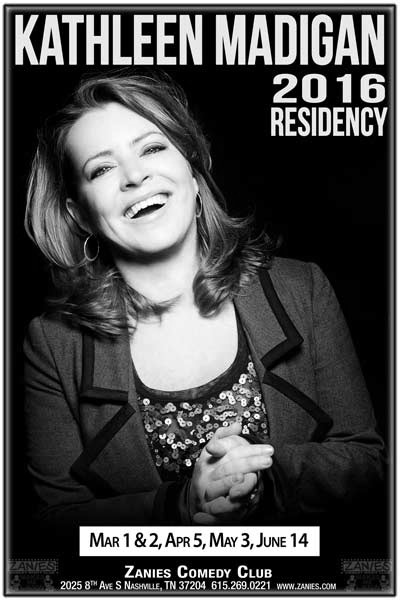
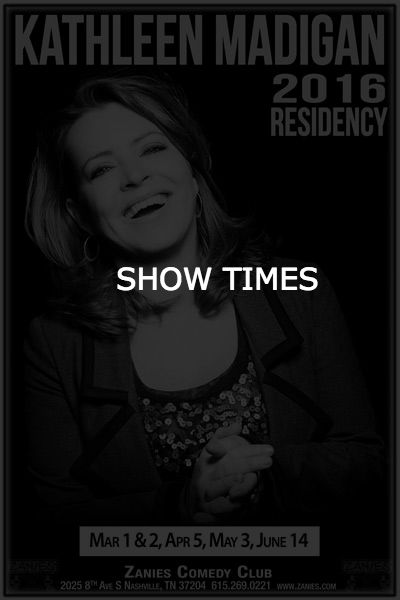
Fixed images to create mouse hover effect

diff --git a/Website/index.html b/Website/index.html
@@ -153,49 +153,49 @@
                           </li>
                           <li class="artists-list">
                             <div class="profile-cell">
-                              <a data-toggle="modal" data-target="#myModal00" class="artistslink">
+                              <a data-toggle="modal" data-target="#myModal01" class="artistslink">
                                 <div class="crop">
-                                  <img class="artists-pic" src="img/artists/artist01.jpg">
+                                  <img class="artists-pic" mouseover-src="img/artists/artist01s.jpg" src="img/artists/artist01.jpg">
                                 </div>
                             </div>
                           </li>
                           <li class="artists-list">
                             <div class="profile-cell">
-                              <a data-toggle="modal" data-target="#myModal00" class="artistslink">
+                              <a data-toggle="modal" data-target="#myModal03" class="artistslink">
                                 <div class="crop">
-                                  <img class="artists-pic" src="img/artists/artist03.jpg">
+                                  <img class="artists-pic" mouseover-src="img/artists/artist03s.jpg" src="img/artists/artist03.jpg">
                                 </div>
                             </div>
                           </li>
                           <li class="artists-list">
                             <div class="profile-cell">
-                              <a data-toggle="modal" data-target="#myModal00" class="artistslink">
+                              <a data-toggle="modal" data-target="#myModal04" class="artistslink">
                                 <div class="crop">
-                                  <img class="artists-pic" src="img/artists/artist04.jpg">
+                                  <img class="artists-pic" mouseover-src="img/artists/artist04s.jpg" src="img/artists/artist04.jpg">
                                 </div>
                             </div>
                           </li>
                           <li class="artists-list">
                             <div class="profile-cell">
-                              <a data-toggle="modal" data-target="#myModal00" class="artistslink">
+                              <a data-toggle="modal" data-target="#myModal08" class="artistslink">
                                 <div class="crop">
-                                  <img class="artists-pic" src="img/artists/artist08.jpg">
+                                  <img class="artists-pic" mouseover-src="img/artists/artist08s.jpg" src="img/artists/artist08.jpg">
                                 </div>
                             </div>
                           </li>
                           <li class="artists-list">
                             <div class="profile-cell">
-                              <a data-toggle="modal" data-target="#myModal00" class="artistslink">
+                              <a data-toggle="modal" data-target="#myModal09" class="artistslink">
                                 <div class="crop">
-                                  <img class="artists-pic" src="img/artists/artist09.jpg">
+                                  <img class="artists-pic" mouseover-src="img/artists/artist09s.jpg" src="img/artists/artist09.jpg">
                                 </div>
                             </div>
                           </li>
                           <li class="artists-list">
                             <div class="profile-cell">
-                              <a data-toggle="modal" data-target="#myModal00" class="artistslink">
+                              <a data-toggle="modal" data-target="#myModal07" class="artistslink">
                                 <div class="crop">
-                                  <img class="artists-pic" src="img/artists/artist07.jpg">
+                                  <img class="artists-pic" mouseover-src="img/artists/artist07s.jpg" src="img/artists/artist07.jpg">
                                 </div>
                             </div>
                           </li>

diff --git a/Website/css/custom.css b/Website/css/custom.css
@@ -53,6 +53,10 @@ hr {
     letter-spacing: 3px;
 }
 
+.navbar-default:hover .navbar-nav>li>a:hover {
+  color: rgb(255, 0, 0);
+}
+
 .img-full {
     min-width: 100%;
 }
@@ -69,6 +73,7 @@ hr {
 .brand-name {
     margin-top: 100px;
     font-size: 4em;
+    color: rgb(255, 0, 0);
 }
 
 .tagline-divider {
